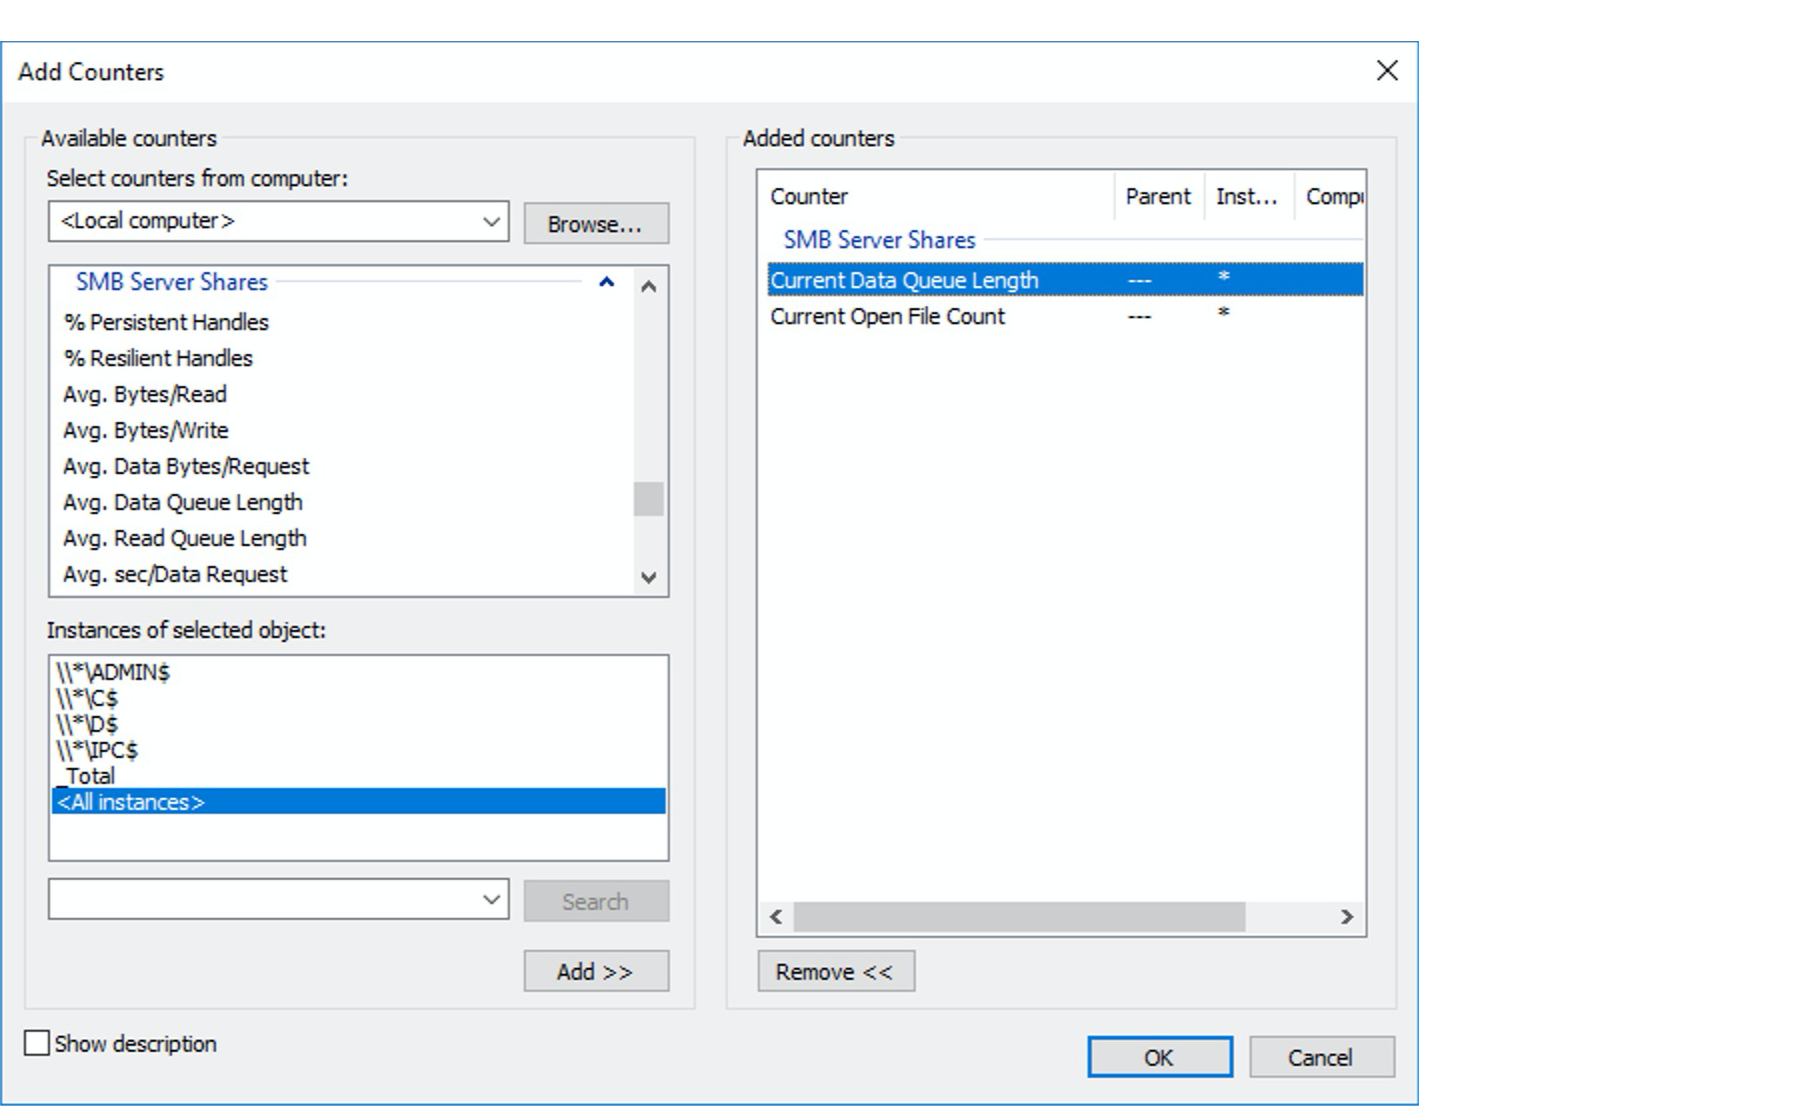
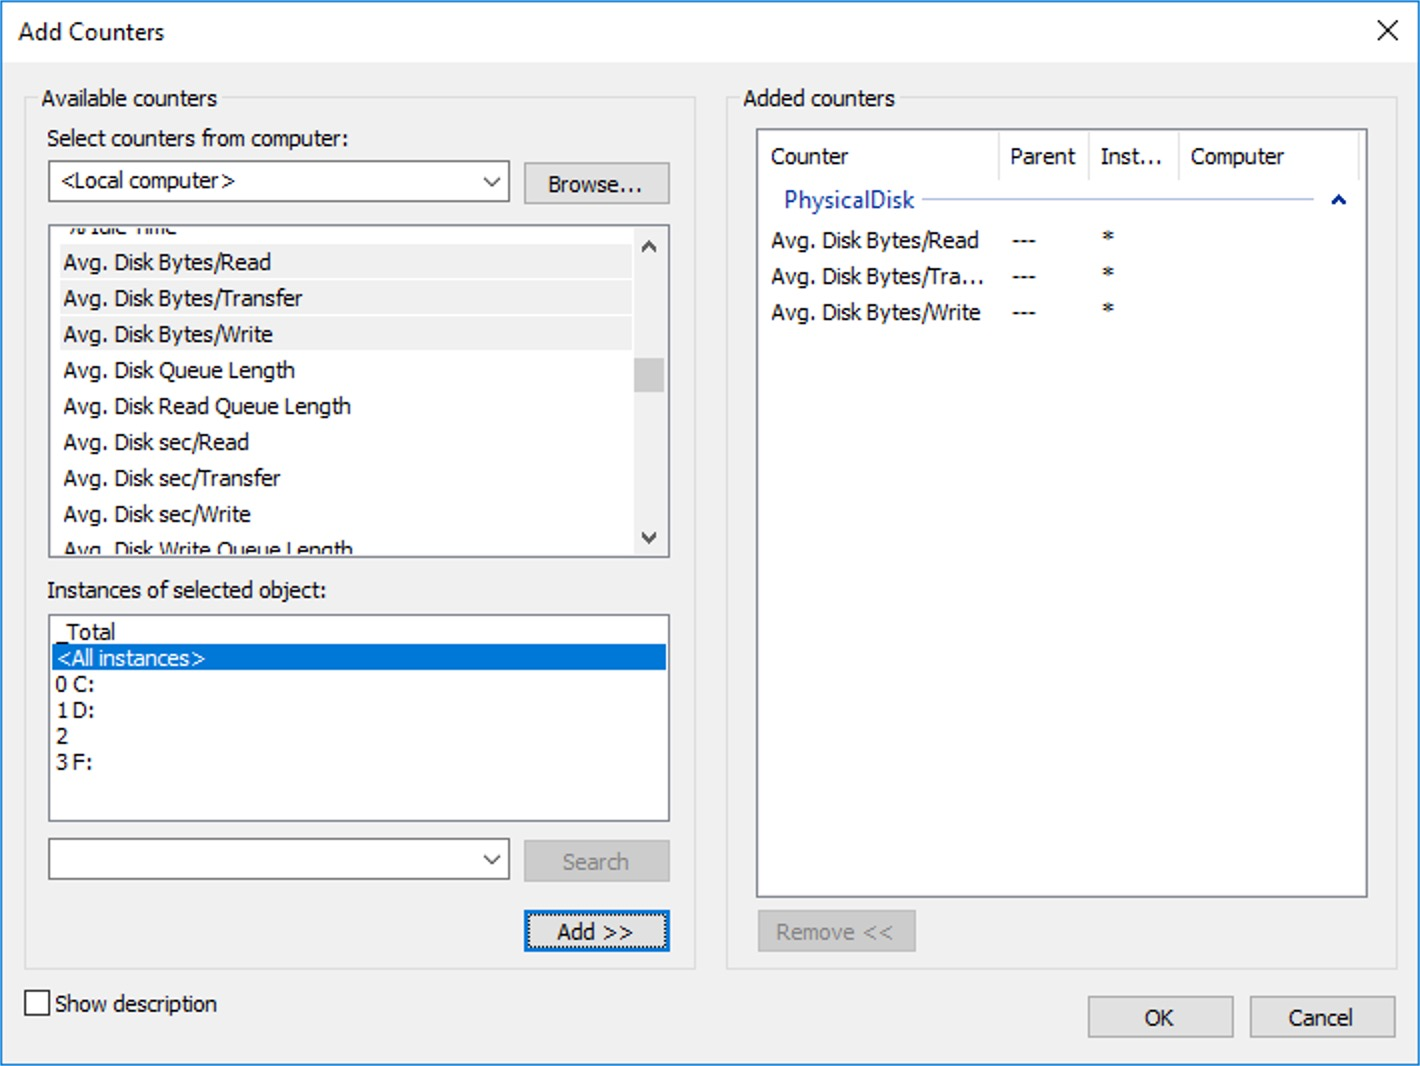
Updated PHD example

diff --git a/windows.md b/windows.md
@@ -126,15 +126,16 @@ instances:
 
 ## Performance Counters - [pdh_check.d/conf.yaml](https://github.com/DataDog/integrations-core/blob/master/pdh_check/datadog_checks/pdh_check/data/conf.yaml.example)
 
-Counter names are **CASE SENSITIVE**.  Example is based on the image below.
+Counter names are **CASE SENSITIVE**.  Example is based on the image below and you can find more info on those counter [here](https://docs.microsoft.com/en-us/archive/blogs/askcore/measuring-disk-latency-with-windows-performance-monitor-perfmon).
 
 <img src="img/perf_counters.jpg" width="400px"/>
 
 ```yaml
 init_config:
 instances:
-  - countersetname: SMB Server Shares
+  - countersetname: PhysicalDisk
     metrics:
-      - ['Current Data Queue Length', pdh.smb_server_shares.data_queue_length, gauge]
-      - ['Current Open File Count', pdh.smb_server_shares.open_file_count, gauge]
+      - ['Avg. Disk sec/Read', pdh.physicaldisk.avg_disk_read, gauge]
+      - ['Avg. Disk sec/Transfer', pdh.physicaldisk.avg_disk_transfer, gauge]
+      - ['Avg. Disk sec/Write', pdh.physicaldisk.avg_disk_write, gauge]
 ```
